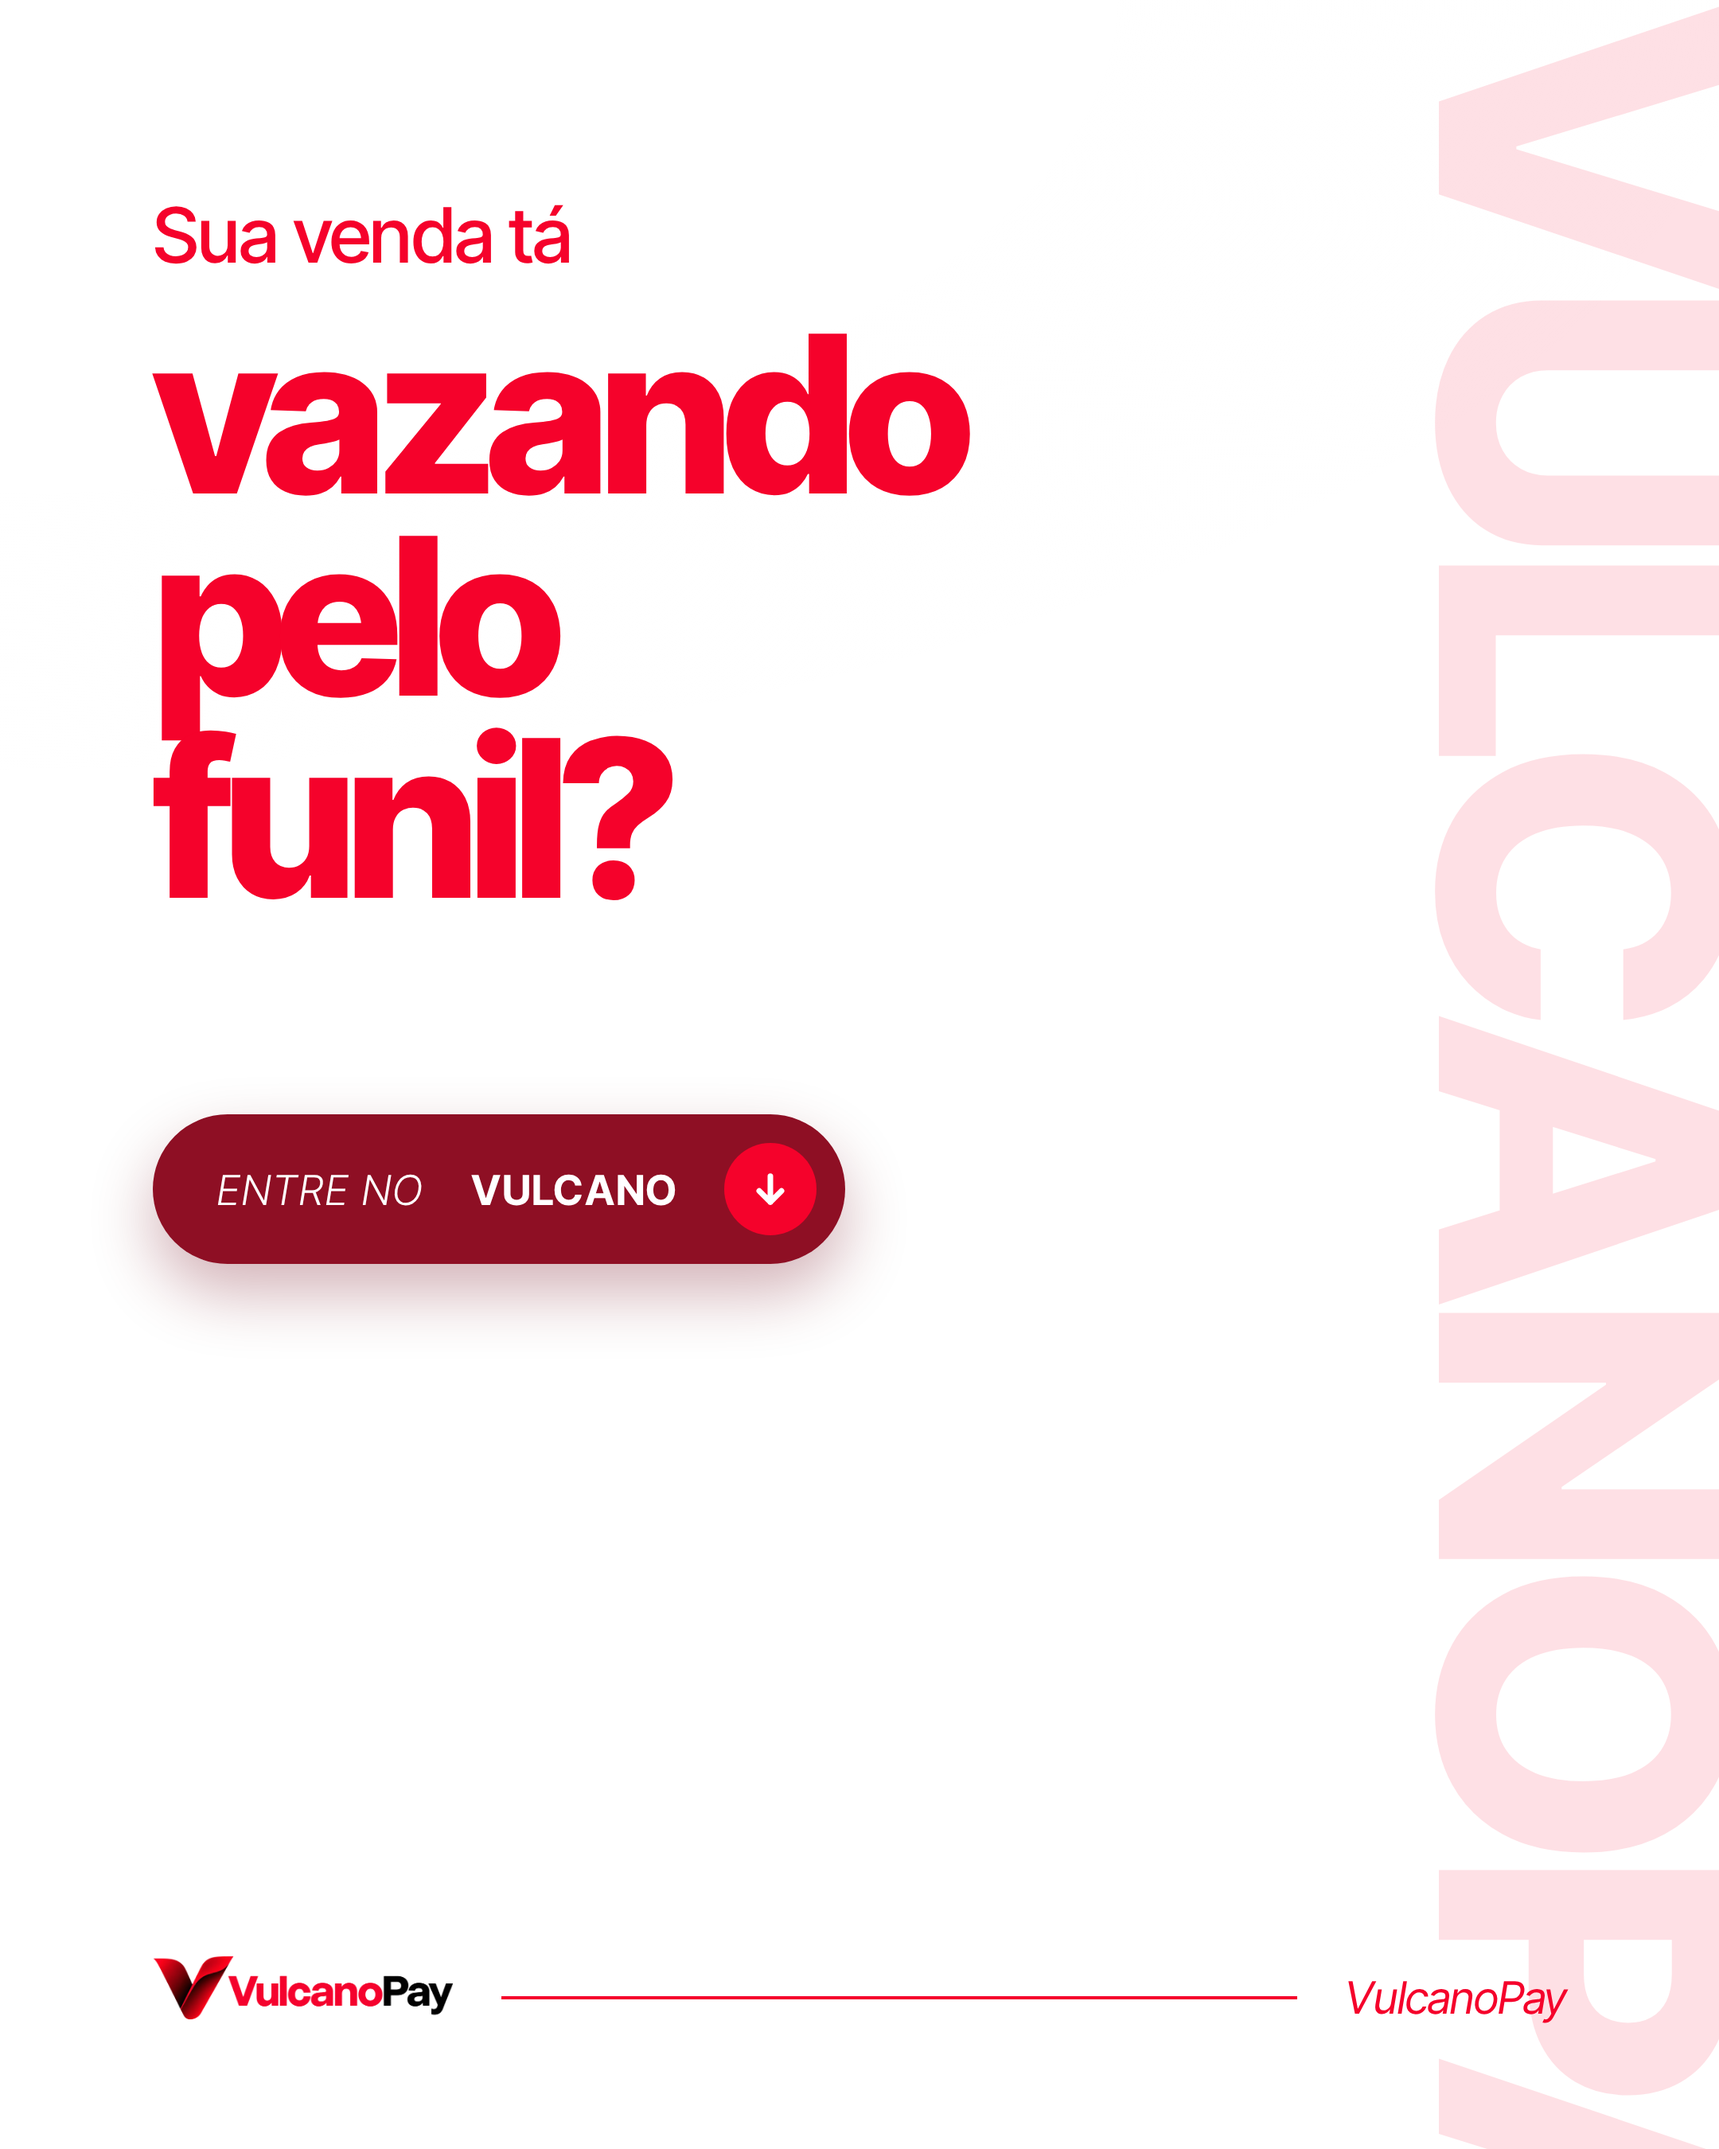
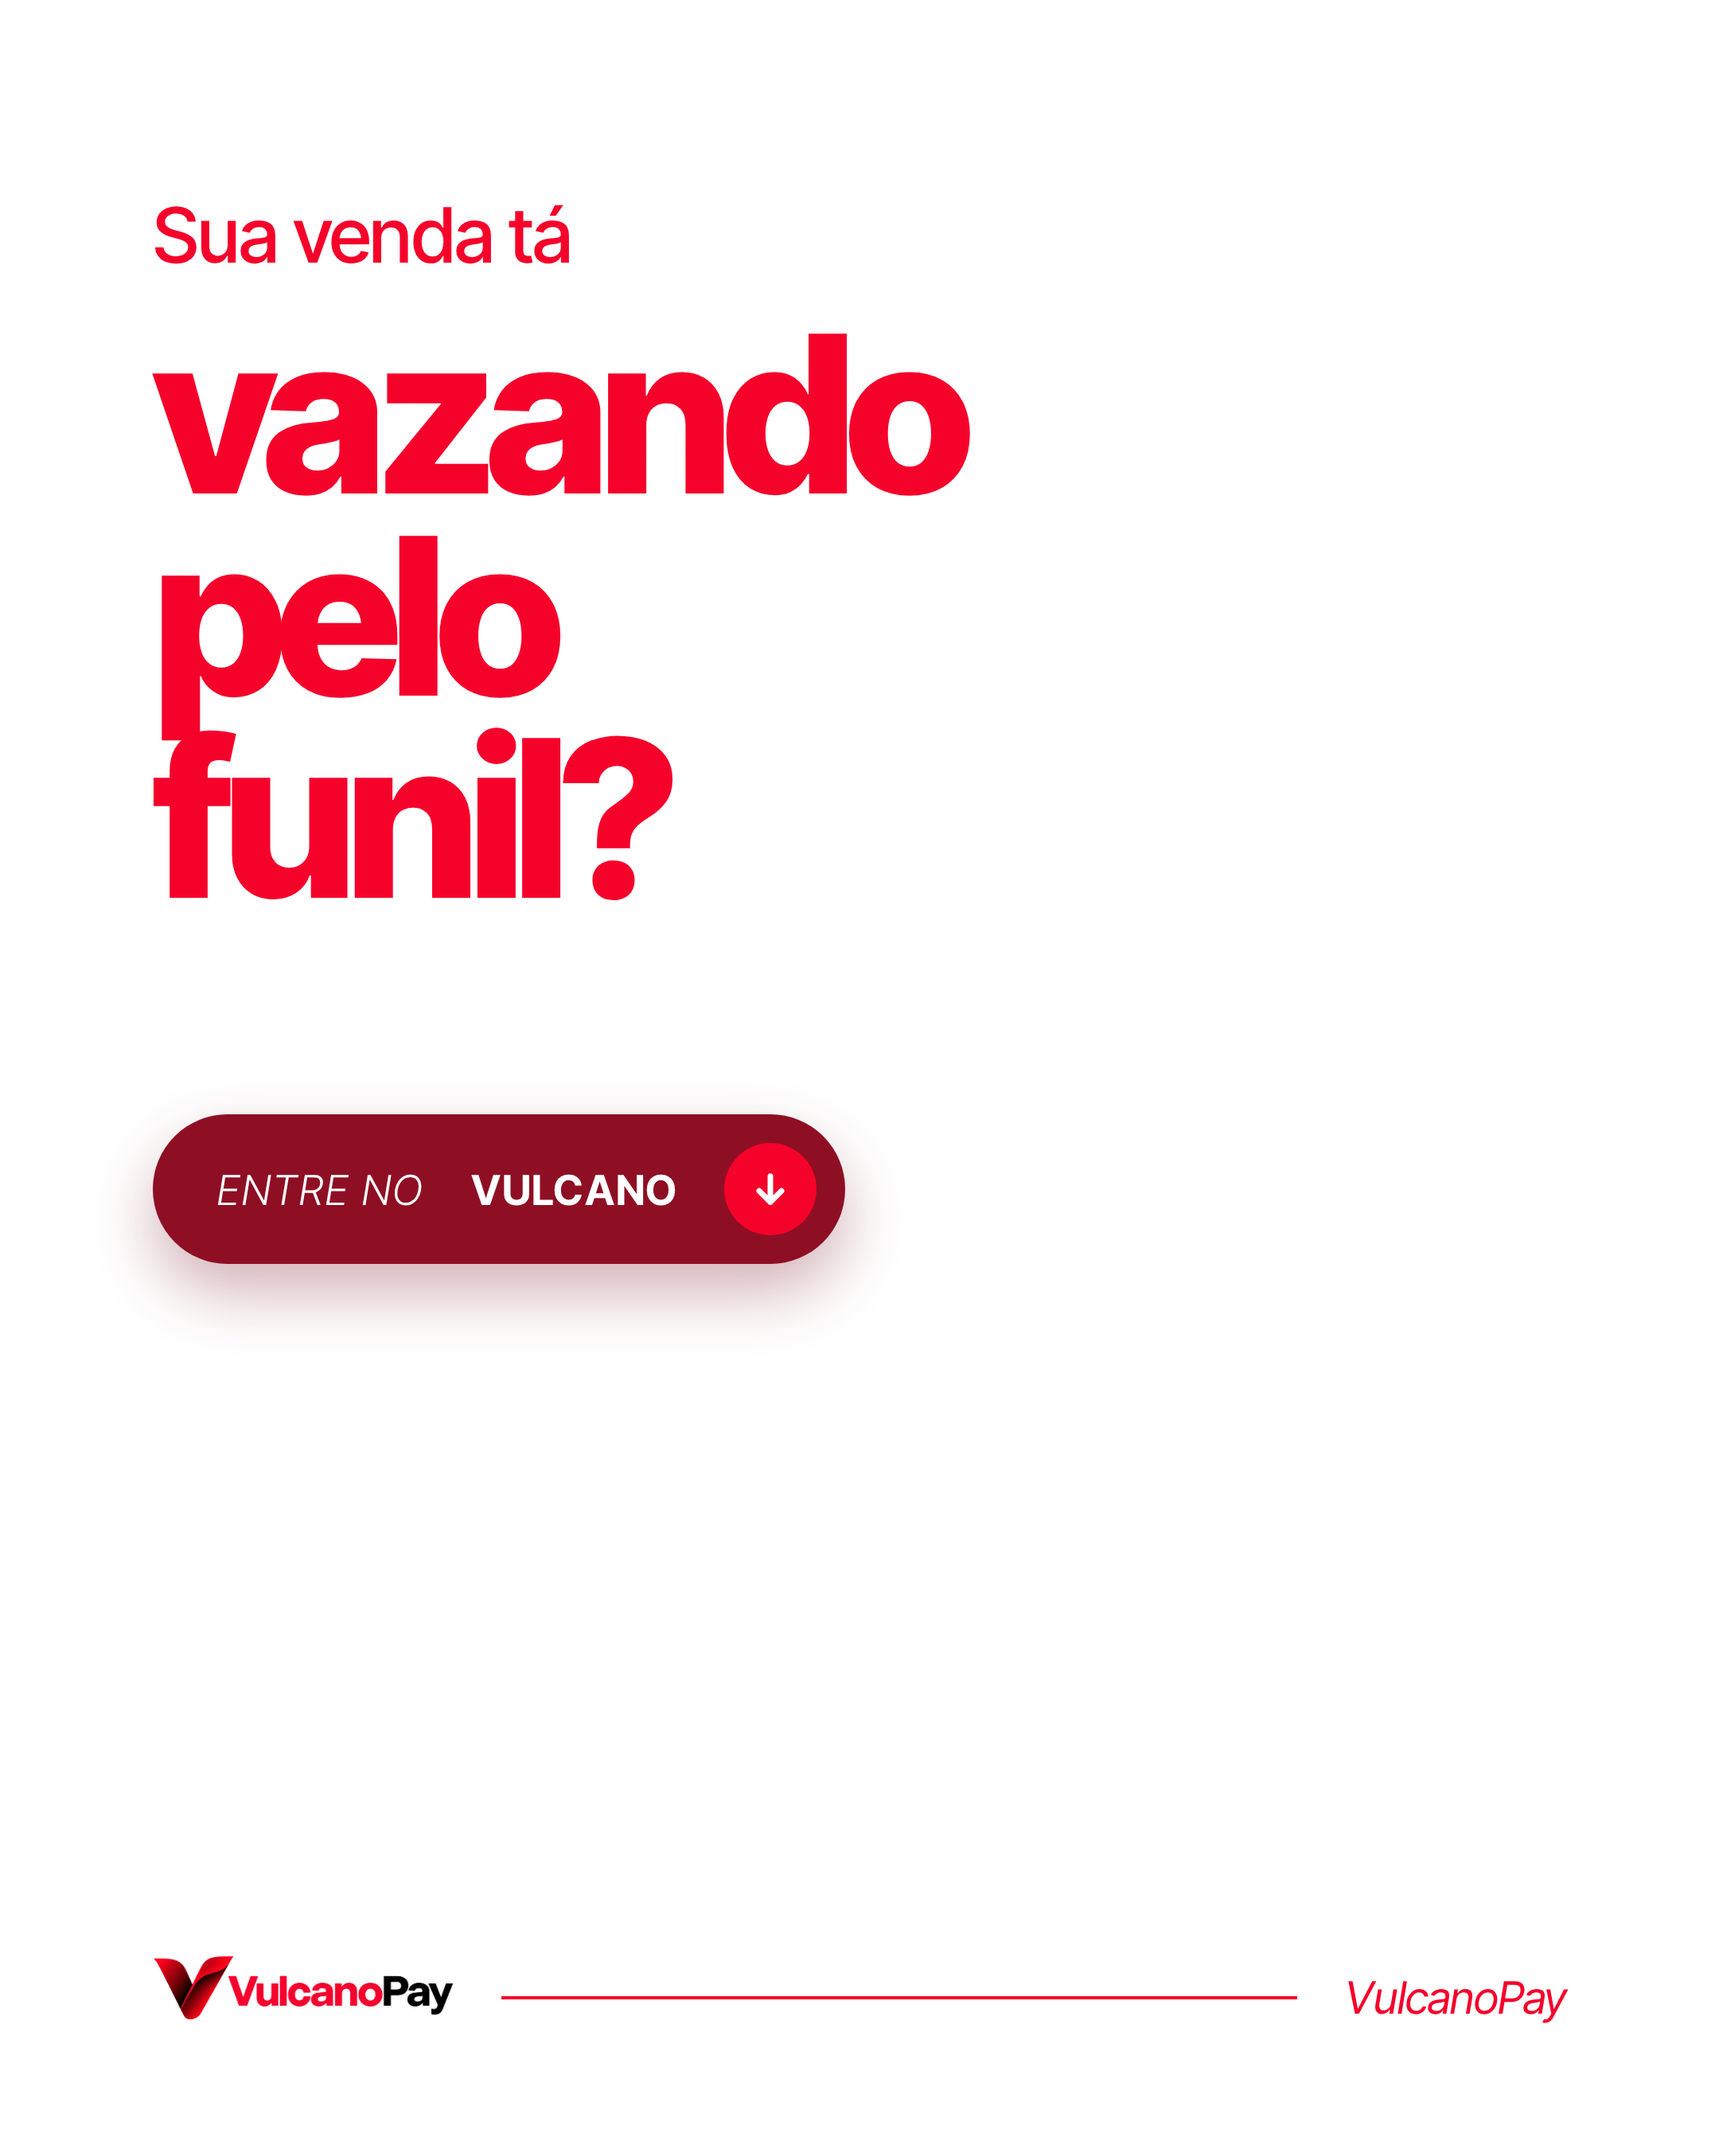
Remove marca d'água vertical dos posts 02, 05 e 06
Claude-Session: https://claude.ai/code/session_0145Hz251Jjj3yhdR3KHMSyW

Changed region(s): [[0.8375, 0.0, 1.0, 1.0]]

diff --git a/posts-vulcanopay/v3-mascote/06-saque.html b/posts-vulcanopay/v3-mascote/06-saque.html
@@ -1,6 +1,5 @@
 <!doctype html><html lang="pt-BR"><head><meta charset="utf-8"><title>06 · O dinheiro é seu</title><link rel="stylesheet" href="flevo.css"></head>
 <body><div class="post">
-  <div class="wm" style="left:auto;right:-40px;transform:none;color:rgba(245,2,43,.1);mix-blend-mode:normal;height:1220px">VULCANOPAY</div>
   <img src="cenas/06-saque.jpg" style="right:110px;top:150px;width:600px;height:750px;object-fit:cover;border-radius:40px">
   <div class="bubble" style="left:96px;top:640px;width:500px;padding:56px 52px 90px;background:#C8001F">
     <div class="title" style="font-size:66px"><span class="it" style="font-style:normal;font-weight:400">Vendeu?</span><span class="bd" style="color:#fff">Já tá na mão.</span></div>

diff --git a/posts-vulcanopay/v3-mascote/05-funil.html b/posts-vulcanopay/v3-mascote/05-funil.html
@@ -2,7 +2,6 @@
 <body><div class="post">
   <img class="scene" src="cenas/05-funil.jpg">
   <div class="fade-top" style="height:620px;background:radial-gradient(130% 100% at 0% 0%, #fff 50%, rgba(255,255,255,0) 78%)"></div>
-  <div class="wm" style="left:auto;right:-40px;transform:none;color:rgba(245,2,43,.12);mix-blend-mode:normal;height:1220px">VULCANOPAY</div>
   <div style="left:96px;top:120px;width:640px">
     <div style="font-size:48px;line-height:1.15;letter-spacing:-.02em;color:var(--red);font-weight:500">Sua venda tá</div>
     <div style="font-size:138px;line-height:.92;letter-spacing:-.05em;color:var(--red);font-weight:800;margin-top:22px">vazando<br>pelo<br>funil?</div>

diff --git a/posts-vulcanopay/v3-mascote/02-simpay.html b/posts-vulcanopay/v3-mascote/02-simpay.html
@@ -1,7 +1,6 @@
 <!doctype html><html lang="pt-BR"><head><meta charset="utf-8"><title>02 · SimPay</title><link rel="stylesheet" href="flevo.css"></head>
 <body><div class="post">
   <img class="scene" src="cenas/02-simpay.jpg">
-  <div class="wm" style="height:1100px;color:rgba(245,2,43,.3)">VULCANOPAY</div>
   <div class="bubble" style="right:80px;top:110px;width:560px;text-align:right">
     <div class="title" style="font-size:76px"><span class="it">Uma adquirente</span><span class="it">nova.</span><span class="bd">7 nominais.</span></div>
     <div class="sub" style="font-size:29px">A SimPay chegou na VulcanoPay com 7 nominais diferentes.</div>
